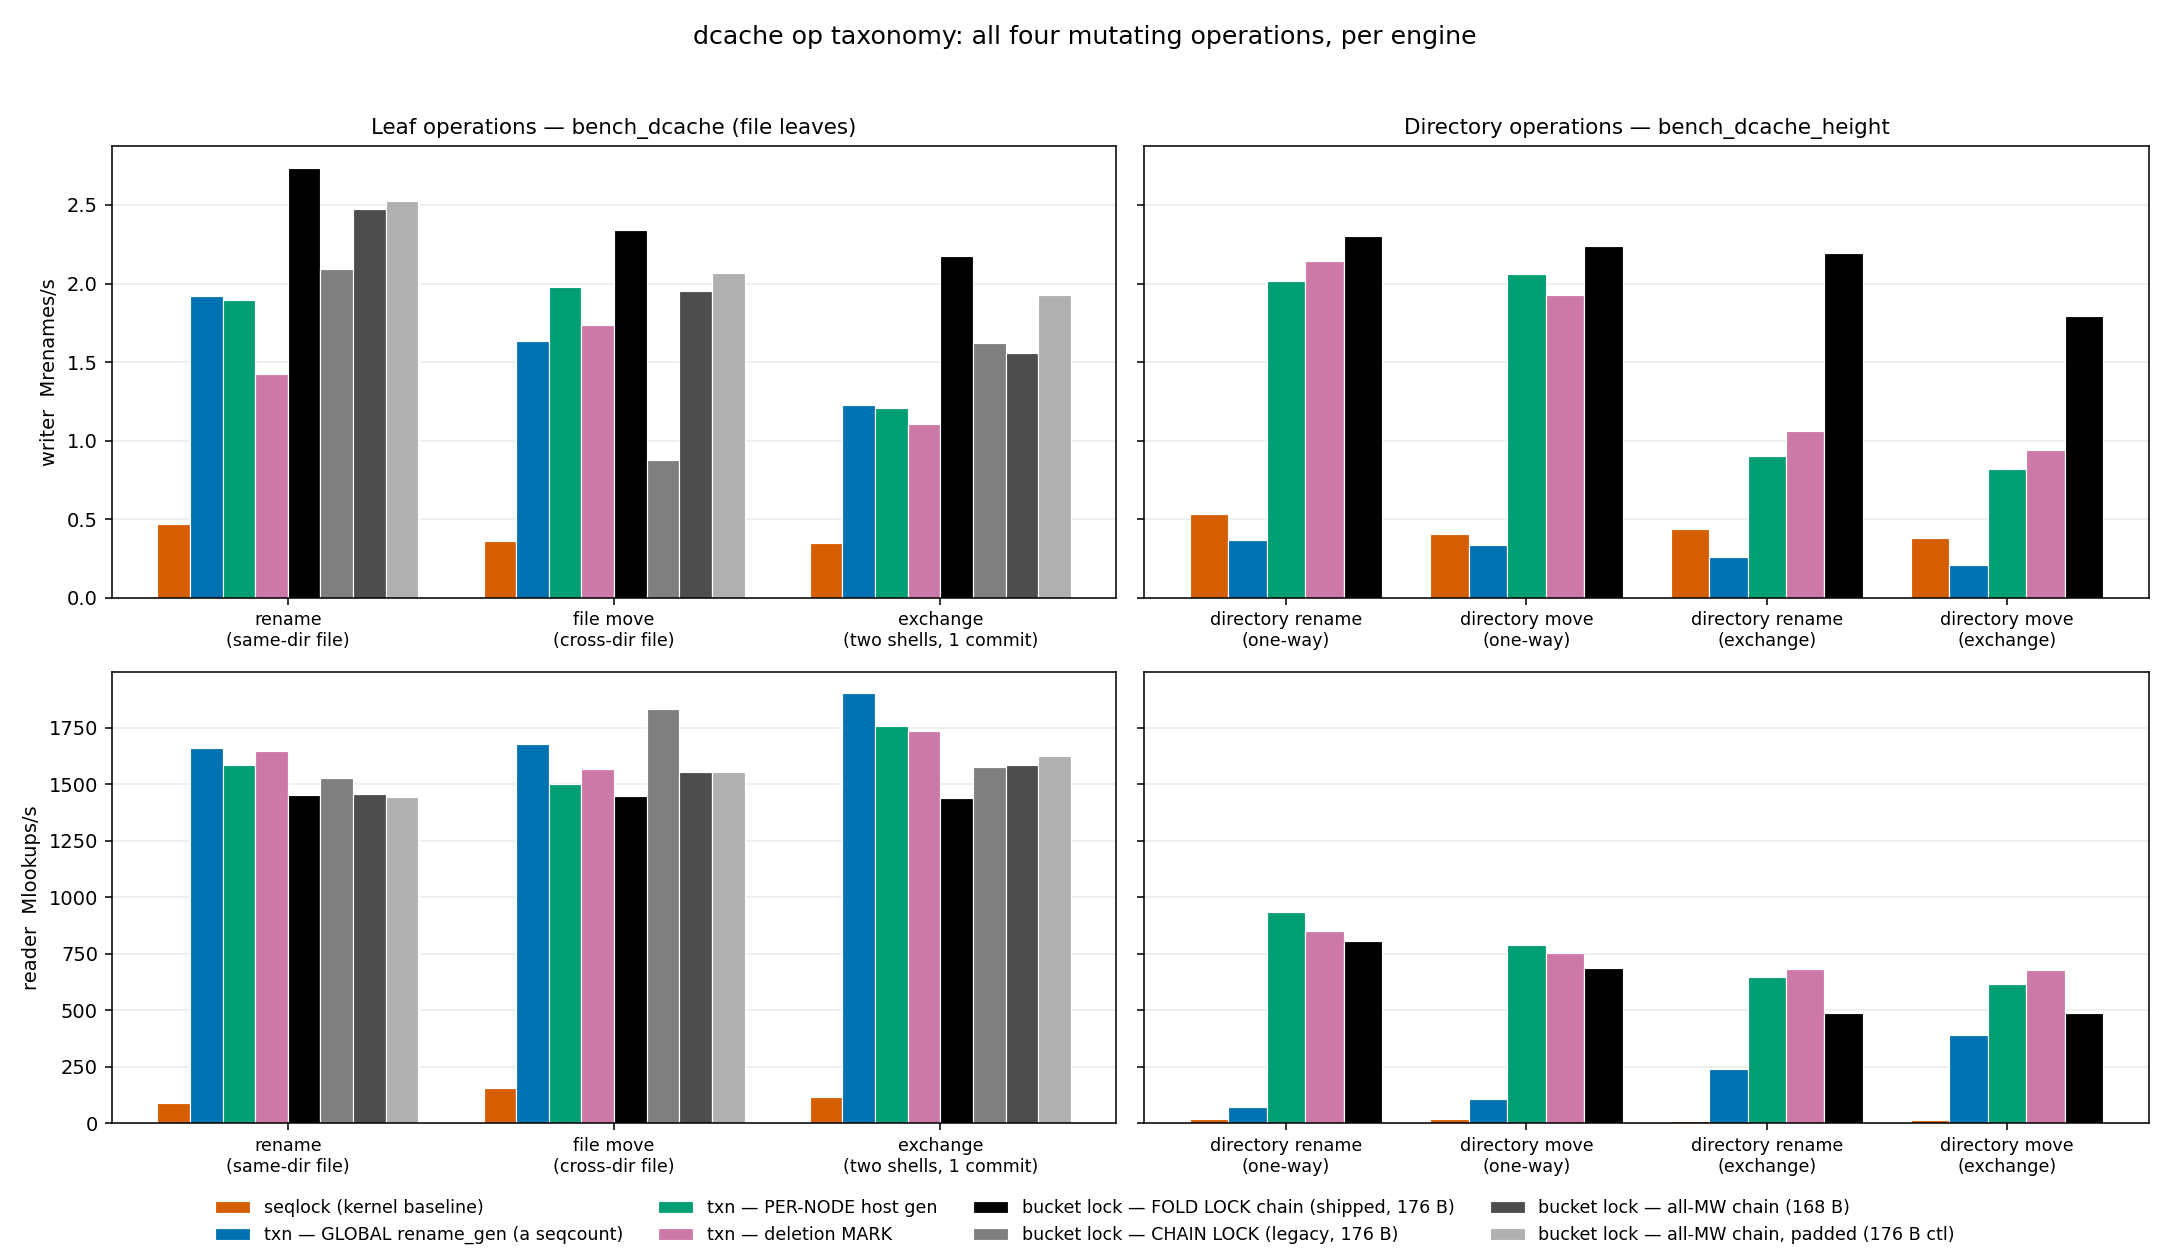
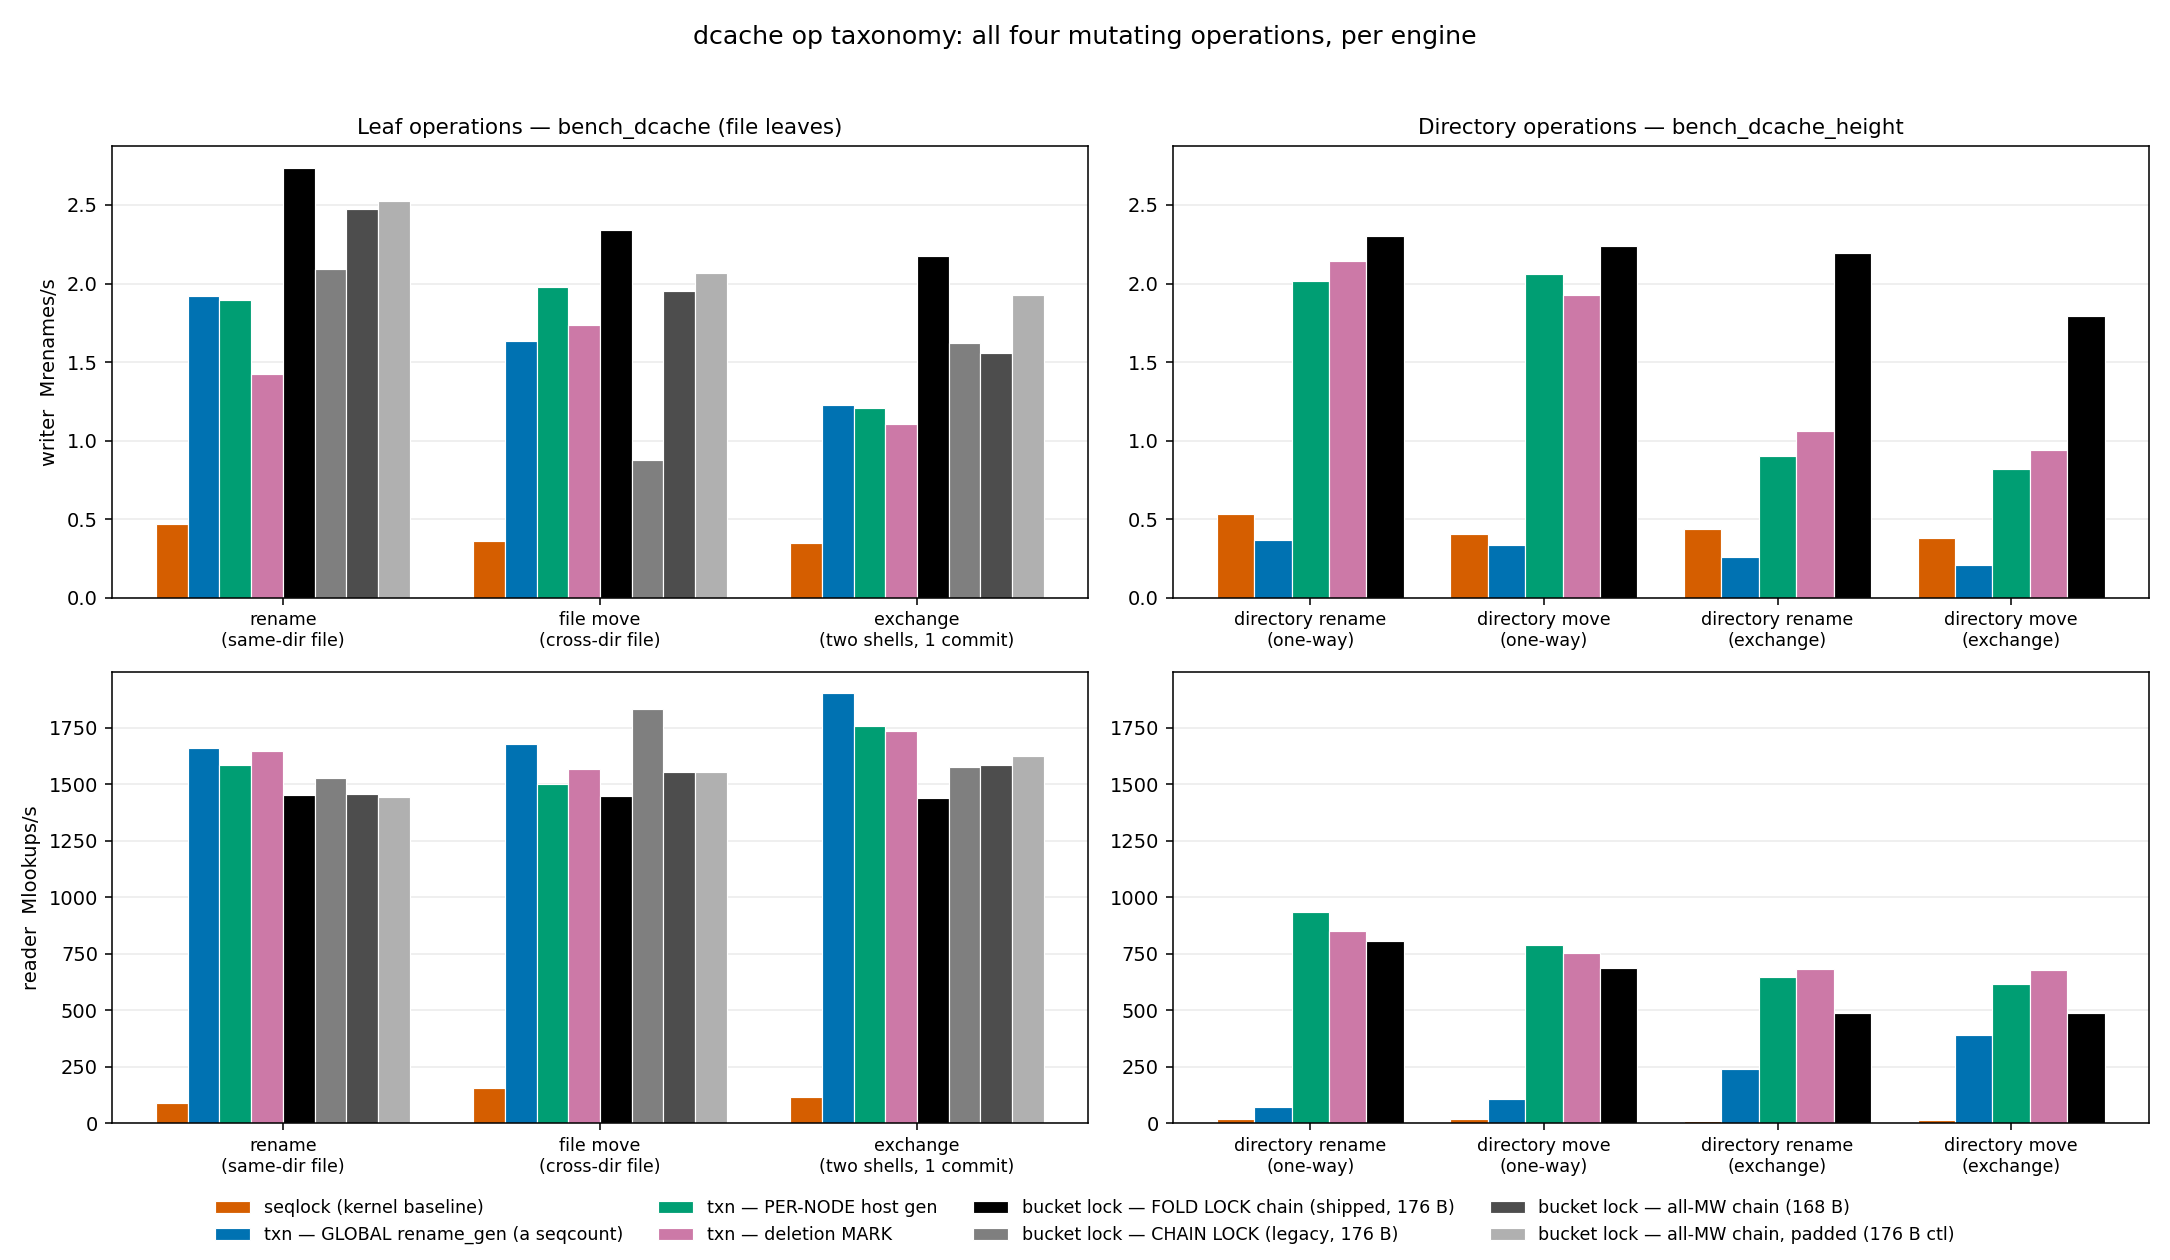
scripts: keep the tick labels on both columns of the op-taxonomy figure
sharey="row" made the two panels of a row carry one scale, and then hid the
right column's tick labels -- matplotlib's default for shared axes, and the
wrong default here.  Both directory panels rendered with tick marks and no
numbers, so the shared scale was something a reader had to take on trust rather
than something they could check; the honest fix for a figure whose whole point
is cross-panel comparability is to show the numbers on both sides.

tick_params(labelleft=True) puts them back on every panel.  The y LABEL stays
once per row on the left, since that names the metric rather than the scale.

The scales themselves were already shared and are unchanged (writer row 0-2.88,
reader row 0-2000, verified from the live axes).  This commit is legibility
only, not data.

diff --git a/scripts/plot_dcache_optaxonomy.py b/scripts/plot_dcache_optaxonomy.py
@@ -105,6 +105,11 @@ for col, (panel, ops, title) in enumerate((
         ax.set_xticklabels([lab for _, lab in present], fontsize=9)
         if col == 0:                 # shared row scale -> one label, on the left
             ax.set_ylabel(ylab)
+        # sharey hides the inner column's tick labels, which leaves the right
+        # panel with no numbers at all -- so the shared scale becomes something
+        # the reader has to take on trust instead of something they can check.
+        # Put them back: the redundancy is the point.
+        ax.tick_params(labelleft=True)
         ax.set_ylim(bottom=0)
         ax.grid(axis="y", alpha=0.25)
         ax.set_axisbelow(True)
